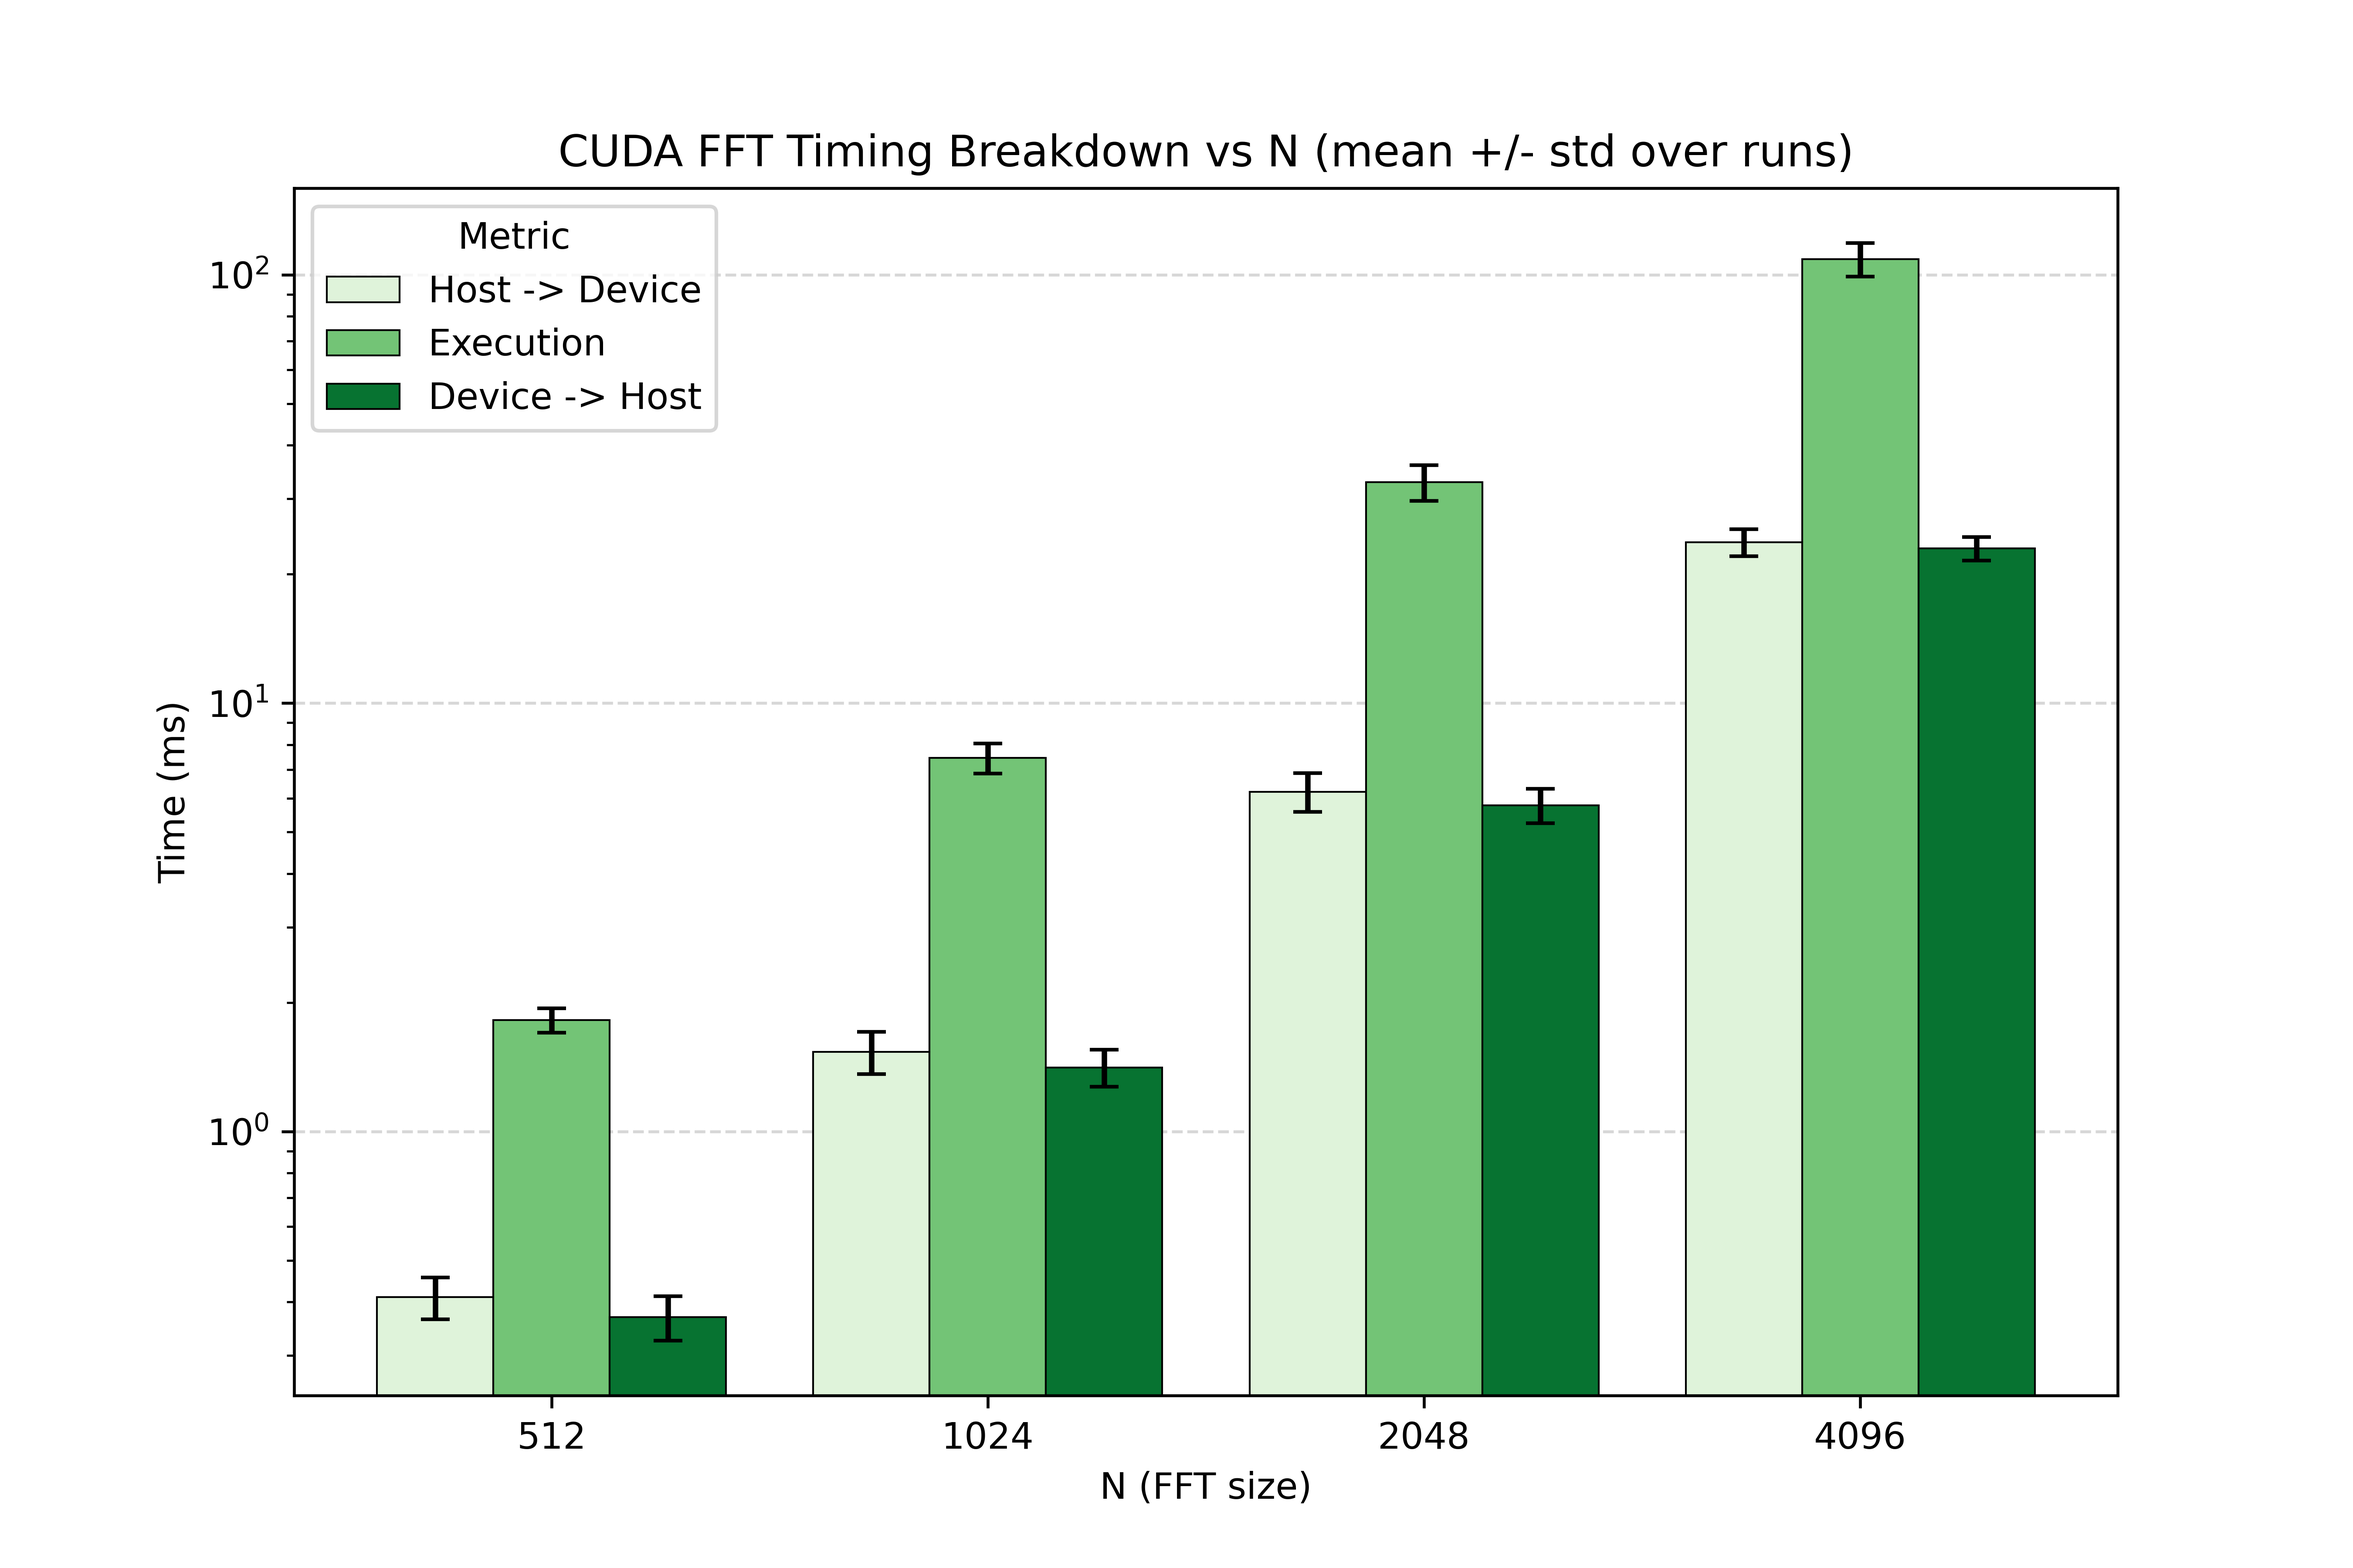
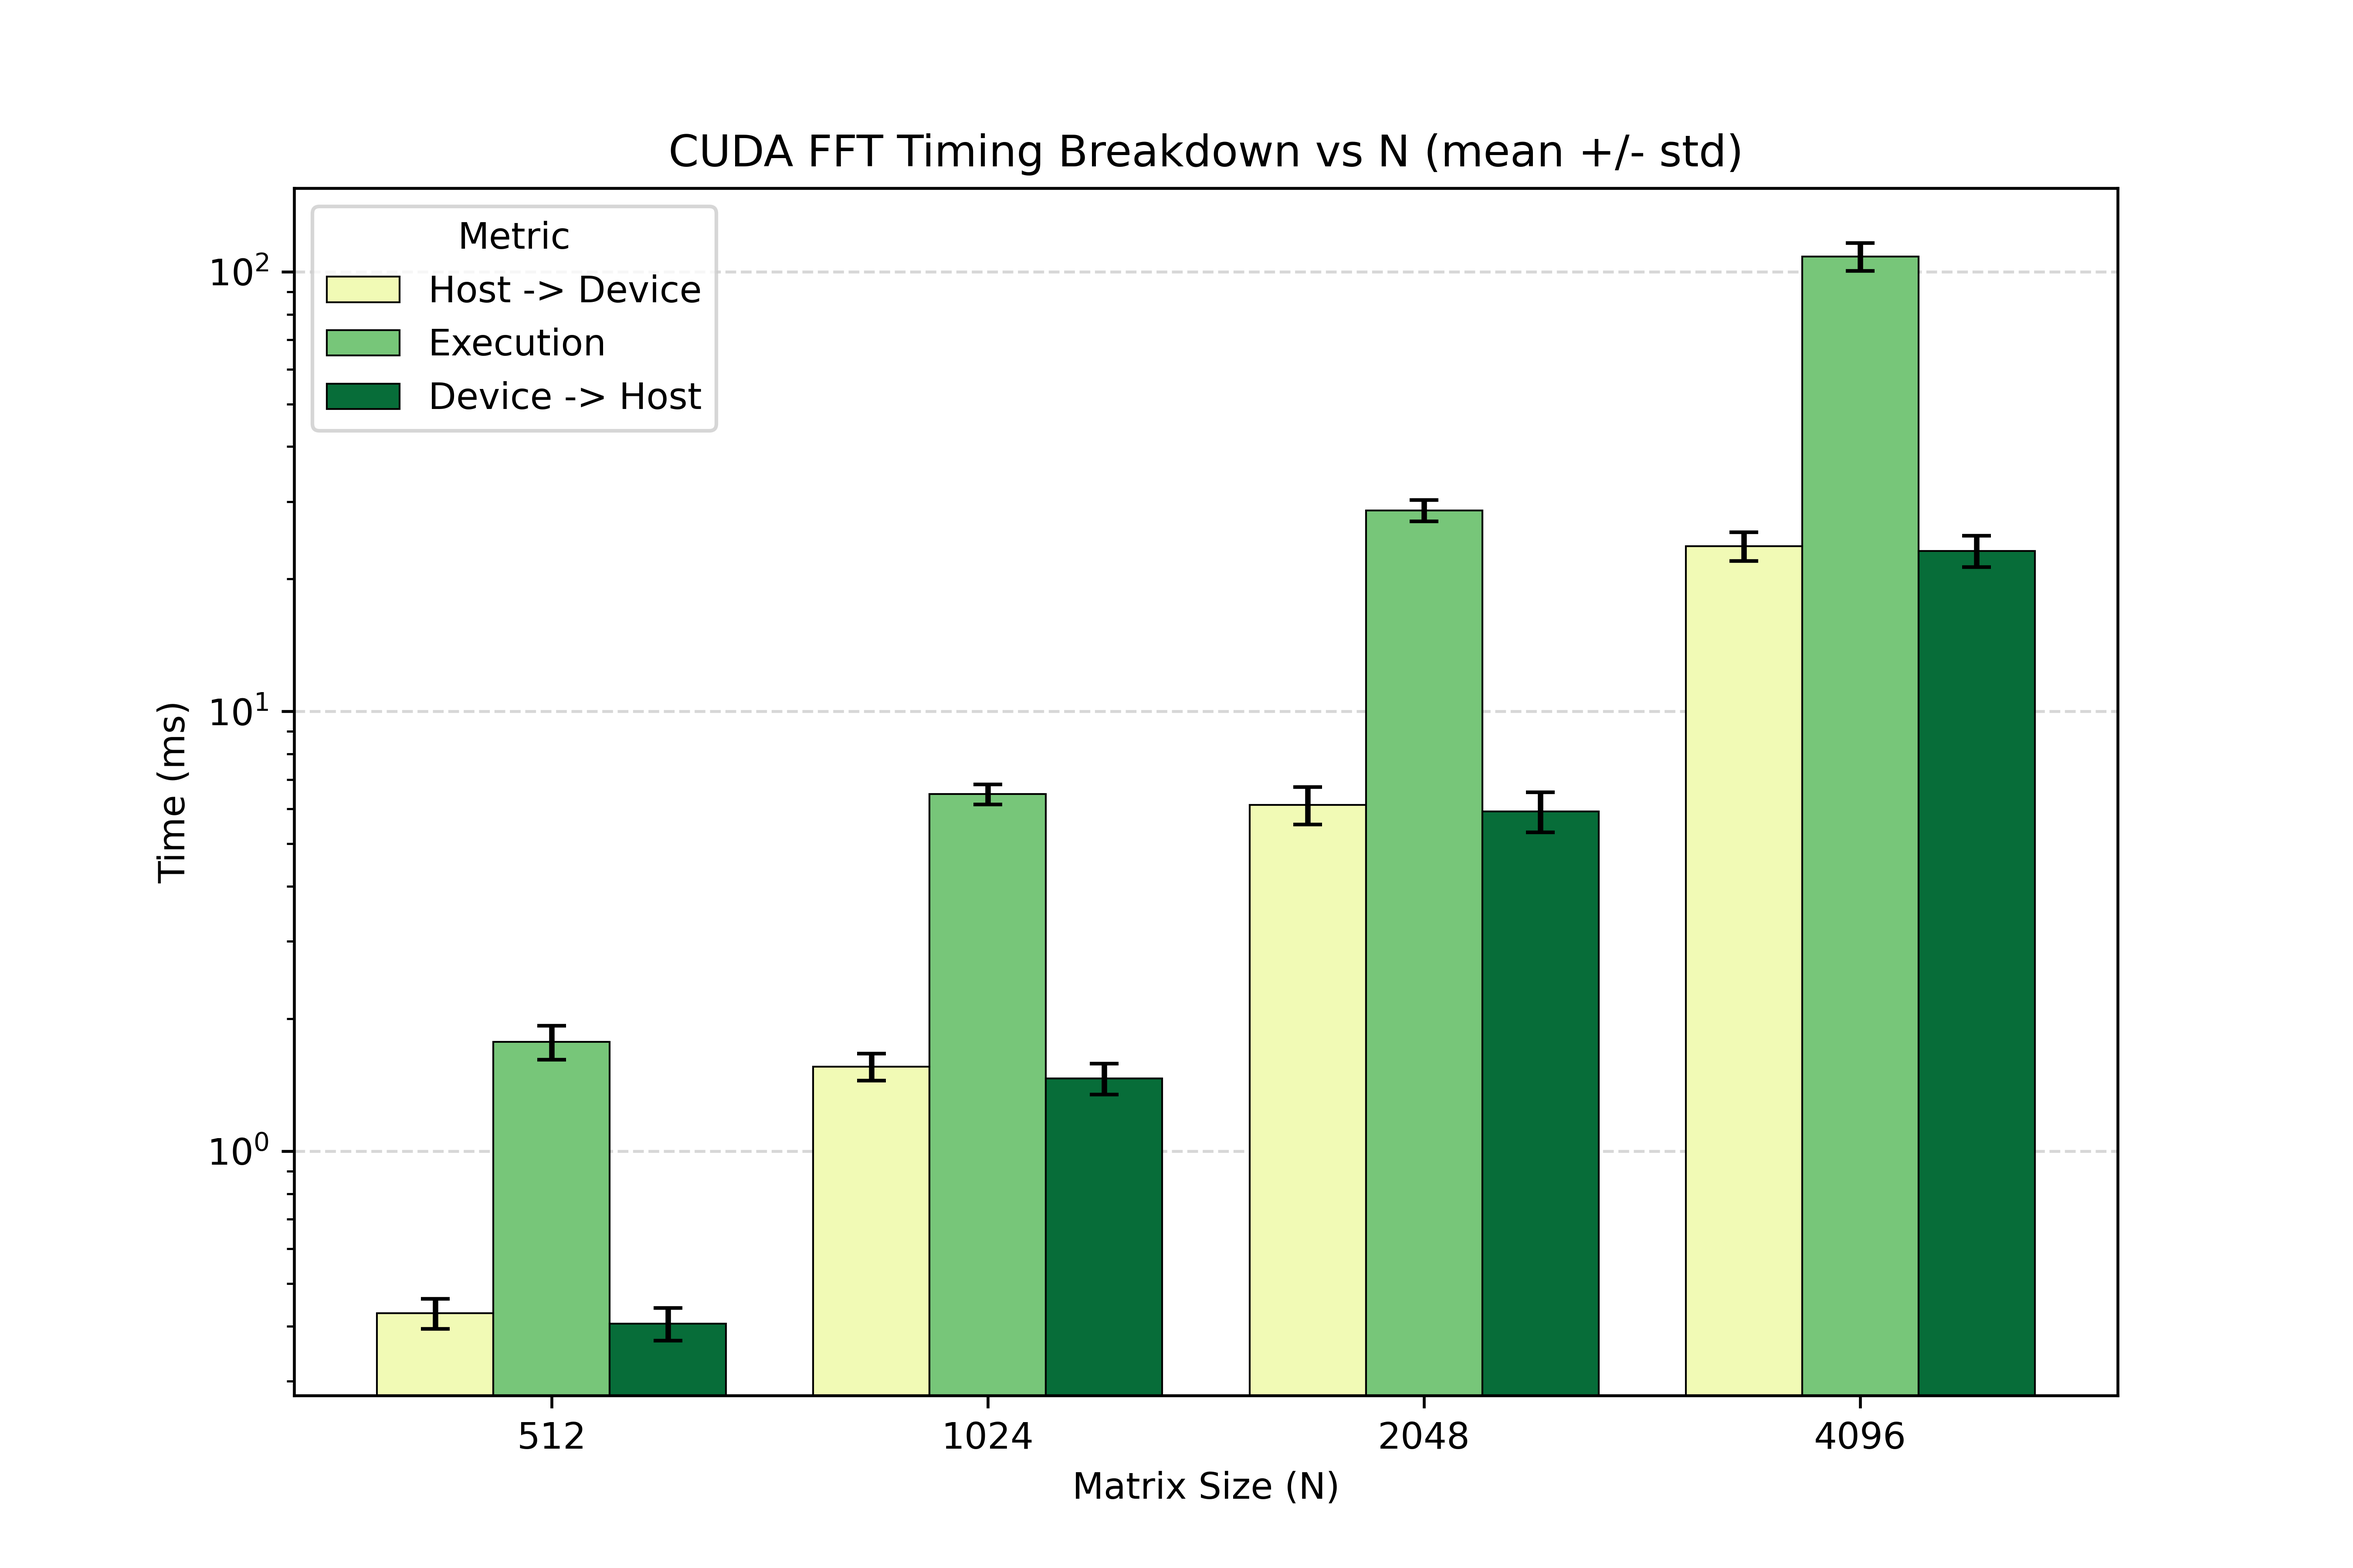
fix colors baarplot

diff --git a/plot/barplot_time_cuda.py b/plot/barplot_time_cuda.py
@@ -2,7 +2,7 @@ import pandas as pd
 import numpy as np
 import matplotlib.pyplot as plt
 
-INPUT_CSV = "../benchmark/results_cuda_global.csv"
+INPUT_CSV = "../benchmark/results_cuda.csv"
 OUTPUT_PNG = "benchmark_barplot.png"
 
 METRICS = ["TimeHostToDevice", "ExecutionTime", "TimeDeviceToHost"]
@@ -26,7 +26,7 @@ bar_width = 0.8 / n_metrics
 
 fig, ax = plt.subplots(figsize=(9, 6))
 
-colors = plt.cm.Greens(np.linspace(0.15, 0.85, n_metrics))
+colors = plt.cm.YlGn(np.linspace(0.15, 0.85, n_metrics))
 
 for i, (metric, label) in enumerate(zip(METRICS, METRIC_LABELS)):
     offset = (i - (n_metrics - 1) / 2) * bar_width
@@ -43,10 +43,10 @@ for i, (metric, label) in enumerate(zip(METRICS, METRIC_LABELS)):
         zorder=2
     )
 
-ax.set_xlabel("N (FFT size)")
+ax.set_xlabel("Matrix Size (N)")
 ax.set_ylabel("Time (ms)")
 ax.set_yscale("log")  # timings span more than an order of magnitude across N
-ax.set_title("CUDA FFT Timing Breakdown vs N (mean +/- std over runs)")
+ax.set_title("CUDA FFT Timing Breakdown vs N (mean +/- std)")
 ax.set_xticks(x)
 ax.set_xticklabels([str(n) for n in N_values])
 ax.legend(title="Metric")

diff --git a/utils_openmp.c b/utils_openmp.c
@@ -78,6 +78,8 @@ static void bit_reverse_copy(const double complex *a, double complex *A, size_t 
     // Each iteration computes the bit-reversed index for one element and writes
     // to a unique location A[r]. Since bit reversal is a permutation, it's impossible
     // for two threads to write to the same array element => no race conditions
+
+    
     #pragma omp parallel for schedule(static)
     for (size_t k = 0; k < n; k++) {
         size_t r   = 0;
